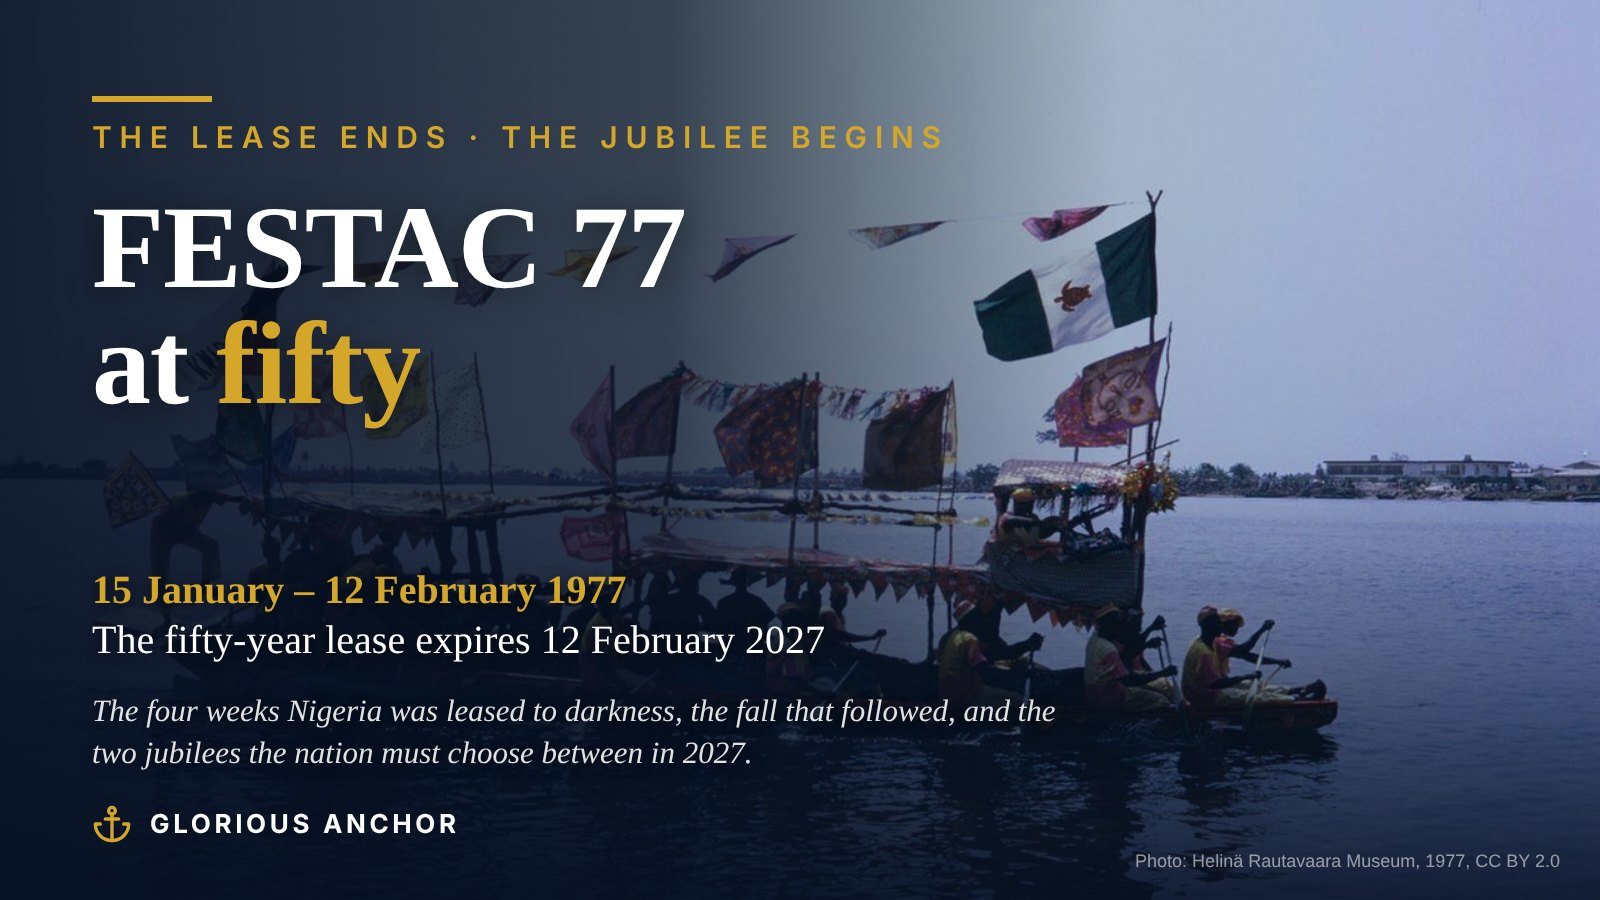
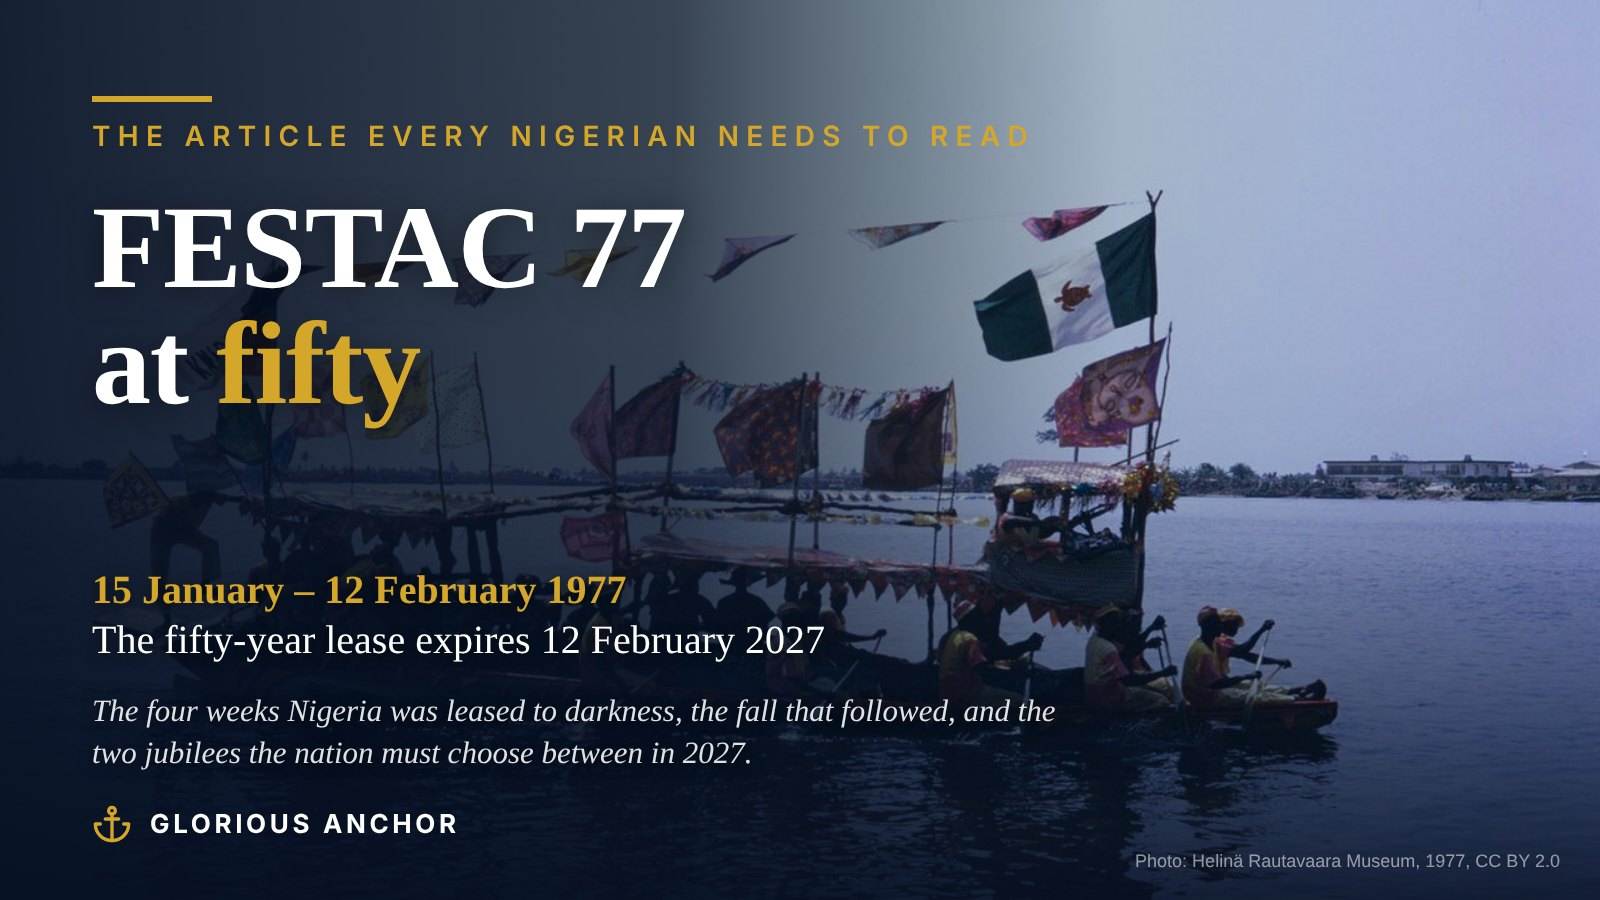
FESTAC draft: strapline on the cover and at the head
Claude-Session: https://claude.ai/code/session_01LLnHLEPYRDT8FVHNG9nvbz

Changed region(s): [[0.0625, 0.1244, 0.6562, 0.1867]]

diff --git a/articles/2026-11-08-festac-77-nigeria-idolatry-repentance.md b/articles/2026-11-08-festac-77-nigeria-idolatry-repentance.md
@@ -11,6 +11,8 @@ about: FESTAC 77|https://en.wikipedia.org/wiki/FESTAC_77, Nigeria|https://en.wik
 draft: true
 ---
 
+**The article every Nigerian needs to read.**
+
 > *For she did not know that I gave her corn, and wine, and oil, and multiplied her silver and gold, which they prepared for Baal.* (Hosea 2:8)
 
 On Saturday 15 January 1977, at the National Stadium in Surulere, a priest of Shango set the festival bowl alight before the Head of State and sixty thousand people, and the Second World Black and African Festival of Arts and Culture began. It ran for four weeks, to Saturday 12 February 1977, in Lagos and for its last days in Kaduna. Some seventeen thousand artists, dancers, scholars and musicians came from fifty-six countries. It was the largest gathering of Black people the world had seen, and the oil boom paid for all of it.
